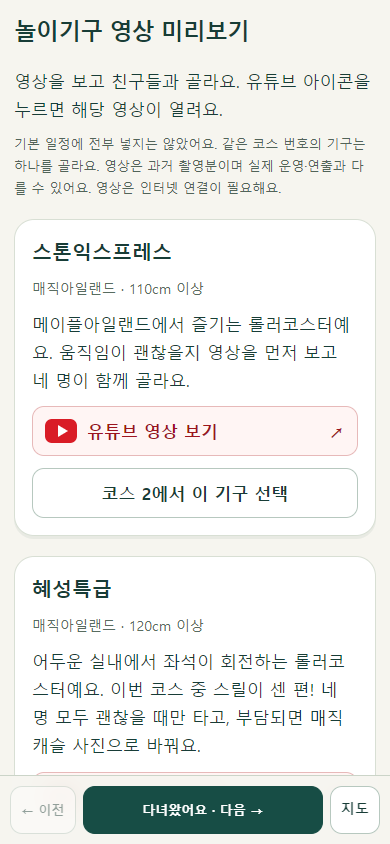
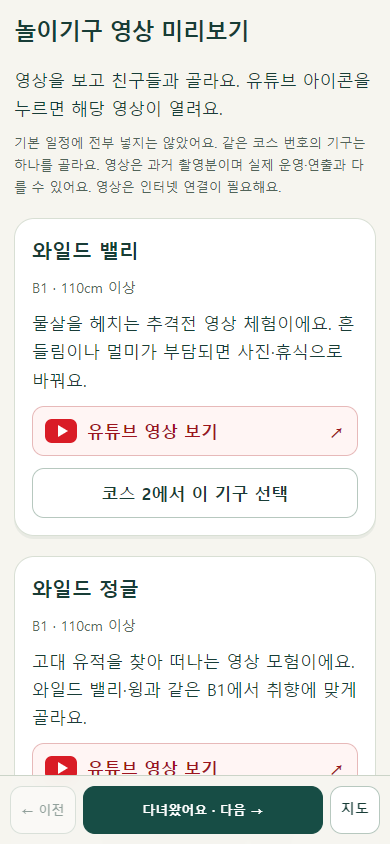
Group rides by floor and connect one outdoor visit to night parade

diff --git a/app.js b/app.js
@@ -1,10 +1,22 @@
+import {migrateV2} from './migration.js';
 import {videos} from './videos.js';
 import {setupMapFullscreen} from './fullscreen.js';
 import {initialState,restore,advance,previous,choose} from './state.js';
 import {steps,places,resolve,directions,links} from './data.js';
 import {RouteMap} from './map.js';
-const $=id=>document.getElementById(id),KEY='lotte-day-v2';
-let state;try{const raw=localStorage.getItem(KEY);if(raw)state=restore(raw,steps.length);else{const oldRaw=localStorage.getItem('lotte-day-v1');state=oldRaw?restore(oldRaw,14):initialState();if(oldRaw){state.current+=state.current>=8?1:0;state.done=state.done.map(i=>i>=8?i+1:i);state.choices=Object.fromEntries(Object.entries(state.choices).map(([i,v])=>[+i>=8?+i+1:+i,v]));if(state.done.includes(1)&&!state.choices[1])state.choices[1]='comet';if(state.done.includes(6)&&!state.choices[6])state.choices[6]='carousel';localStorage.setItem(KEY,JSON.stringify(state));}}}catch{state=initialState();}
+const $=id=>document.getElementById(id),KEY='lotte-day-v3';
+// 코스 번호가 바뀌어도 이미 선택·완료한 장소를 기준으로 복원한다.
+let state;try{
+ const raw=localStorage.getItem(KEY);
+ if(raw)state=restore(raw,steps.length);
+ else{
+  const v2=localStorage.getItem('lotte-day-v2'),v1=localStorage.getItem('lotte-day-v1');
+  let old=restore(v2||v1, v2?15:14);
+  if(!v2&&v1){old.current+=old.current>=8?1:0;old.done=old.done.map(i=>i>=8?i+1:i);old.choices=Object.fromEntries(Object.entries(old.choices).map(([i,v])=>[+i>=8?+i+1:+i,v]));if(old.done.includes(1)&&!old.choices[1])old.choices[1]='comet';if(old.done.includes(6)&&!old.choices[6])old.choices[6]='carousel';}
+  state=v2||v1?migrateV2(old):initialState();
+  localStorage.setItem(KEY,JSON.stringify(state));
+ }
+}catch{state=initialState();}
 let selected=state.current,period='all',floor=resolve(state)[state.current].place.floor;
 const map=new RouteMap($('route-map'),i=>select(i,false));
 const label=p=>({morning:'오전',afternoon:'오후',evening:'저녁'}[p]);
@@ -14,13 +26,13 @@ function toast(t){$('toast').textContent=t;clearTimeout(toast.timer);toast.timer
 function title(s,i){return `<div class="step-title"><span class="num">${i+1}</span><div><h3>${escape(s.place.name)}</h3><div class="meta">${label(s.period)} · ${s.place.floor==='M'?'실외 · 매직아일랜드':`실내 · ${s.place.floor}`} · ${s.required?'필수 일정':'선택 코스'}</div></div></div>`;}
 
 function videoLink(id){const v=videos[id];if(!v)return '';return '<a class="video-link" href="'+v.url+'" target="_blank" rel="noopener noreferrer" aria-label="'+escape(places[id].name)+' 유튜브 영상 보기"><svg viewBox="0 0 32 24" aria-hidden="true"><rect width="32" height="24" rx="7" fill="#d91c26"/><path d="M13 6 L23 12 L13 18 Z" fill="white"/></svg><span>'+escape(v.label||'유튜브 영상 보기')+'</span><span aria-hidden="true">↗</span></a>'+(v.note?'<p class="small">'+escape(v.note)+'</p>':'');}
-const previewSlots={stone:1,comet:1,fantasy:1,horror:1,wild:1,jungle:1,wing:1,sinbad:3,flume:4,dragon:6,kart:6,carousel:6,flyventure:7,monorail:8,pharaoh:8,across:8};
+const previewSlots={wild:1,jungle:1,wing:1,dragon:2,kart:2,carousel:2,flyventure:3,monorail:5,pharaoh:6,across:6,sinbad:7,flume:7,stone:10,fantasy:10,horror:10,comet:10};
 function renderPreviews(){
  $('ride-previews').innerHTML=Object.entries(previewSlots).map(([id,slot])=>'<article class="panel ride-preview"><h3>'+escape(places[id].name)+'</h3><p class="meta">'+(places[id].floor==='M'?'매직아일랜드':places[id].floor)+' · '+escape(places[id].limit||'현장 조건 확인')+'</p><p>'+escape(places[id].note)+'</p>'+videoLink(id)+'<button data-pick-ride="'+id+'" data-slot="'+slot+'">코스 '+(slot+1)+'에서 이 기구 선택</button></article>').join('');
  $('ride-previews').querySelectorAll('[data-pick-ride]').forEach(b=>b.onclick=()=>{const i=+b.dataset.slot;state=choose(state,i,b.dataset.pickRide);if(steps[i].indoor)state.indoor=false;selected=i;period='all';floor=resolve(state)[i].place.floor;save();render();$('step-'+(i+1)).scrollIntoView();});
 }
 
-function details(s){return `<p>${escape(s.place.note)}</p>${videoLink(s.id)}${s.place.limit?`<p class="small">탑승 기준: ${s.place.limit}. 그 외 탑승 제한도 <a href="${s.place.url||links.rides}" target="_blank" rel="noopener">공식 상세</a>와 현장에서 확인해요.</p>`:''}${s.id==='parade'?`<div class="notice"><strong>관람 전 집결: 1F 가든스테이지 주변</strong><p>가든스테이지는 위치 확인용 랜드마크예요. 확정 관람석이 아니에요. 직원이 안내하는 관람선 밖에서 기다려요.</p><p class="small">어드벤처 1F에서 관람해요. 오늘 관람 자리는 직원에게 물어봐요.</p><a href="${links.shows}" target="_blank" rel="noopener">오늘 공연 시간 확인 ↗</a></div>`:''}`;}
+function details(s){return `${s.hint?`<p class="notice">${escape(s.hint)}</p>`:''}<p>${escape(s.place.note)}</p>${videoLink(s.id)}${s.place.limit?`<p class="small">탑승 기준: ${s.place.limit}. 그 외 탑승 제한도 <a href="${s.place.url||links.rides}" target="_blank" rel="noopener">공식 상세</a>와 현장에서 확인해요.</p>`:''}${s.id==='parade'?`<div class="notice"><strong>관람 전 집결: 1F 가든스테이지 주변</strong><p>가든스테이지는 위치 확인용 랜드마크예요. 확정 관람석이 아니에요. 직원이 안내하는 관람선 밖에서 기다려요.</p><p class="small">어드벤처 1F에서 관람해요. 오늘 관람 자리는 직원에게 물어봐요.</p><a href="${links.shows}" target="_blank" rel="noopener">오늘 공연 시간 확인 ↗</a></div>`:''}`;}
 function render(){const list=resolve(state),s=list[state.current];$('progress').textContent=`${state.done.length}/${steps.length} 완료`;$('current').innerHTML=title(s,state.current)+`<p class="meta">${s.time}</p>`;$('next').innerHTML=`<strong>다음에 갈 곳 · ${list[state.current+1]?.place.name||'함께 귀가 완료'}</strong><p class="small">${directions(s.place,list[state.current+1]?.place)}</p>`;
  $('cards').innerHTML=list.map((s,i)=>`<article class="panel route-card ${s.period}-card ${i===selected?'selected':''}" id="step-${i+1}"><button class="card-select" data-select="${i}" aria-label="코스 ${i+1} ${s.place.name} 지도에서 보기">${title(s,i)}<p class="meta">${s.time}</p></button>${state.done.includes(i)?'<p class="done">✓ 다녀왔어요</p>':''}${details(s)}${s.options.length>1?`<label class="choice" for="choice-${i}">${i===11?'취소·미운영이면 대체하기':'대기·취향에 맞춰 고르기'}</label><select id="choice-${i}" data-choice="${i}" ${state.indoor&&s.indoor?'disabled':''}>${(state.indoor&&s.indoor?[s.indoor]:s.options).map(id=>`<option value="${id}" ${s.id===id?'selected':''}>${places[id].name}${['meeting','castle'].includes(id)?' · 사진/휴식':''}</option>`).join('')}</select>`:''}<p class="small"><strong>다음 이동 →</strong> ${directions(s.place,list[i+1]?.place)}</p><button data-current="${i}">${state.current===i?'지금 단계예요':'여기를 현재 단계로'}</button></article>`).join('');
  $('cards').querySelectorAll('[data-select]').forEach(b=>b.onclick=()=>select(+b.dataset.select,true));$('cards').querySelectorAll('[data-current]').forEach(b=>b.onclick=()=>{state.current=+b.dataset.current;selected=state.current;floor=resolve(state)[selected].place.floor;save();render();$('current').scrollIntoView({block:'center'});});$('cards').querySelectorAll('[data-choice]').forEach(c=>c.onchange=()=>{const i=+c.dataset.choice;state=choose(state,i,c.value);selected=i;period='all';floor=resolve(state)[i].place.floor;save();render();toast('선택 코스와 다음 이동을 바꿨어요.');});
@@ -28,7 +40,7 @@ function render(){const list=resolve(state),s=list[state.current];$('progress').
 }
 function renderMap(){const list=resolve(state);const route=[list[selected-1],list[selected],list[selected+1]].filter(Boolean);$('map-route').textContent=route.map(s=>s.place.name+' ('+s.place.floor+')').join(' → ');$('floor').value=floor;$('periods').innerHTML=[['all','전체'],['morning','오전'],['afternoon','오후'],['evening','저녁']].map(([id,name])=>`<button data-period="${id}" aria-pressed="${id===period}">${name}</button>`).join('');$('periods').querySelectorAll('button').forEach(b=>b.onclick=()=>{period=b.dataset.period;renderMap();});map.draw(list,selected,period,floor);if(period==='all'&&floor===list[selected].place.floor)map.focus(selected);const s=list[selected];$('map-detail').innerHTML=`<p class="eyebrow">선택한 코스 · 현재 단계 ${state.current+1}과 다를 수 있어요</p>${title(s,selected)}<p class="meta">${s.time}</p>${details(s)}<p class="small"><strong>이곳으로 → </strong>${selected?directions(list[selected-1].place,s.place):'정문 B1에서 출발해요.'}</p><p class="small"><strong>다음으로 → </strong>${directions(s.place,list[selected+1]?.place)}</p><a class="button" href="#step-${selected+1}">이 일정 카드 열기</a>`;}
 function select(i,scroll){selected=i;period='all';floor=resolve(state)[i].place.floor;render();map.focus(i);if(scroll)$('map').scrollIntoView();}
-$('prev').onclick=()=>{state=previous(state);selected=state.current;save();render();};$('next-step').onclick=()=>{state=advance(state,steps.length);selected=state.current;save();render();toast(state.current===steps.length-1?'네 명 모두 함께 귀가해요.':'다음 단계로 이동했어요.');};
+$('prev').onclick=()=>{state=previous(state);selected=state.current;period='all';floor=resolve(state)[selected].place.floor;save();render();};$('next-step').onclick=()=>{state=advance(state,steps.length);selected=state.current;period='all';floor=resolve(state)[selected].place.floor;save();render();toast(state.current===steps.length-1?'네 명 모두 함께 귀가해요.':'다음 단계로 이동했어요.');};
 $('indoor').onchange=e=>{state.indoor=e.target.checked;state.done=state.done.filter(i=>!steps[i].indoor);period='all';floor='all';save();render();toast(state.indoor?'야외 일정을 실내로 바꿨어요.':'기본 야외 코스로 돌아왔어요.');};
 $('floor').onchange=e=>{floor=e.target.value;renderMap();};$('zoom-in').onclick=()=>map.zoom(.75);$('zoom-out').onclick=()=>map.zoom(1.33);$('fit').onclick=()=>{period='all';floor='all';renderMap();map.fit();};$('focus').onclick=()=>{period='all';floor=resolve(state)[selected].place.floor;renderMap();map.focus(selected);};$('show-current').onclick=()=>select(state.current,false);
 $('reset').onclick=()=>$('reset-confirm').hidden=false;$('reset-no').onclick=()=>$('reset-confirm').hidden=true;$('reset-yes').onclick=()=>{state=initialState();selected=0;period='all';floor='all';save();render();$('reset-confirm').hidden=true;toast('처음 단계로 돌아왔어요.');};

diff --git a/index.html b/index.html
@@ -9,6 +9,6 @@
 <p class="small notice">10시 개장을 가정한 <strong>권장 시간대</strong>예요. 예약 시간이 아니에요. 정문(B1) 출발을 가정했어요. 다른 입구라면 직원에게 첫 목적지를 물어봐요.</p>
 <section id="map" class="panel"><div class="section-top"><h2>우리의 코스 지도</h2><span class="tag">공식 지도 기반</span></div><p><strong>첨부 가이드맵 위에서 따라가기</strong></p><p class="small">배경은 공식 가이드맵이에요. 큰 색상 원과 ‘코스’ 버튼은 우리 번호예요. 원본의 작은 시설 번호와 달라요. 확대해서 확인해요.</p><div class="filters" id="periods" aria-label="시간대 선택"></div><label for="floor">구역 / 층 선택</label><select id="floor"><option value="all">전체 코스</option><option value="B1">실내 B1 · 정문</option><option value="1F">실내 1F</option><option value="2F">실내 2F</option><option value="3F">실내 3F</option><option value="4F">실내 4F</option><option value="M">실외 · 매직아일랜드</option></select>
 <div class="legend"><span class="morning">● 오전</span><span class="afternoon">● 오후</span><span class="evening">● 저녁</span></div><div id="map-route" class="notice small" aria-live="polite"></div><div class="map-wrap" id="map-wrap"><svg id="route-map" role="group" aria-label="코스 번호를 눌러 장소를 확인하는 안내도" viewBox="0 0 640 840"></svg></div><div class="map-controls"><button id="zoom-in" aria-label="지도 확대">＋</button><button id="zoom-out" aria-label="지도 축소">−</button><button id="fit">전체 경로</button><button id="focus">선택 장소</button></div><p class="small">지도 안: 한 손가락 이동 · 두 손가락 확대/축소<br>페이지 이동: 지도 바깥에서 위아래로 밀어요.</p><div class="notice small"><strong>점선 화살표 = 이동 방향 안내</strong><br>점선은 목적지 방향이에요. 실제 길은 현장 안내를 따라가요.</div><h3>층을 바꾸는 곳</h3><div class="transfer"><strong>실내 ↔ 매직아일랜드</strong><p>신밧드 쪽 1F 계단·에스컬레이터<br>⇅ 어드벤처 2F 연결 통로<br>⇄ 연결 다리 ⇄ 매직캐슬 앞</p></div><div class="transfer"><strong>피크닉 장소</strong><p>회전바구니 출구 옆 1F 계단 ⇅ 2F</p></div><h3>동선 근처 화장실</h3><p class="small">WC · B1 정문 근처 잇츠월드 옆<br>WC · 1F 회전바구니·피크닉 계단 근처<br>WC · 1F 만남의 광장 안쪽</p><div id="map-detail" aria-live="polite"></div><p class="small">축척 없는 동선 안내도 · 핀은 시설 위치예요.</p><a class="button" id="official-map" target="_blank" rel="noopener">공식 가이드맵 열기 ↗</a></section>
-<section id="schedule"><div class="section-top"><h2>하루를 한 걸음씩</h2><span class="tag">큰 번호 순서로</span></div><p class="small">필수는 밥·휴식·함께 귀가! 놀이기구는 모두 선택이에요. 인기 기구는 한 개만 타도 좋아요.</p><div class="panel alternatives"><h3>상황에 맞게 바꾸기</h3><a class="button" href="#videos">▶ 놀이기구 영상 보고 고르기</a><label class="check"><input id="indoor" type="checkbox"> 비·추위 → 실내 코스로 바꾸기</label><p class="small">야외 일정이 실내 사진·휴식으로 바뀌고 지도와 다음 이동도 함께 바뀌어요.</p><p>혜성특급은 이번 코스 중 스릴이 센 편이에요. 어둠·회전이 싫으면 사진 코스로 바꿔요.</p><p>대기 60분 이상 → 해당 카드에서 사진·휴식을 선택해요.</p><p>무서운 기구가 어렵다면 → 함께 쉬거나 순한 대안을 골라요. 혼자 남지 않아요.</p></div><div id="cards"></div></section>
+<section id="schedule"><div class="section-top"><h2>하루를 한 걸음씩</h2><span class="tag">큰 번호 순서로</span></div><p class="small">필수는 밥·휴식·함께 귀가! 놀이기구는 모두 선택이에요. 인기 기구는 한 개만 타도 좋아요.</p><div class="panel alternatives"><h3>상황에 맞게 바꾸기</h3><a class="button" href="#videos">▶ 놀이기구 영상 보고 고르기</a><label class="check"><input id="indoor" type="checkbox"> 비·추위 → 실내 코스로 바꾸기</label><p class="small">야외 일정이 실내 사진·휴식으로 바뀌고 지도와 다음 이동도 함께 바뀌어요.</p><p>혜성특급은 이번 코스 중 스릴이 센 편이에요. 어둠·회전이 싫으면 사진 코스로 바꿔요.</p><p>대기 60분 이상 → 기구를 건너뛰어요. 다음 일정 카드의 ‘여기를 현재 단계로’를 눌러요.</p><p>무서운 기구가 어렵다면 → 함께 쉬거나 순한 대안을 골라요. 혼자 남지 않아요.</p></div><div class="panel"><h3>왔다 갔다 줄인 순서</h3><p>B1 와일드 → 1F 드래곤·플라이벤처 → 점심 → 3F 모노레일 → 4F 택1 → 1F 신밧드·휴식 → 저녁 → 야외 기구·야경 → 실내 퍼레이드 → 귀가</p><p class="small">야외는 저녁에 한 번만! 공연이 빠르면 저녁도 앞당기고 야외 기구·사진은 줄여요. 기구는 모두 선택이며, 못 타도 괜찮아요.</p></div><div id="cards"></div></section>
 <section id="videos"><h2>놀이기구 영상 미리보기</h2><p>영상을 보고 친구들과 골라요. 유튜브 아이콘을 누르면 해당 영상이 열려요.</p><p class="small">기본 일정에 전부 넣지는 않았어요. 같은 코스 번호의 기구는 하나를 골라요. 영상은 과거 촬영분이며 실제 운영·연출과 다를 수 있어요. 영상은 인터넷 연결이 필요해요.</p><div id="ride-previews"></div></section><section id="ready" class="panel"><h2>출발 전 체크</h2><div class="packing"><label><input type="checkbox"> 작은 가방</label><label><input type="checkbox"> 물</label><label><input type="checkbox"> 보조배터리</label><label><input type="checkbox"> 편한 운동화</label><label><input type="checkbox"> 겉옷</label></div><h3>우리 넷의 약속</h3><p>이동 전에는 네 명 모두 있는지 확인해요. 길이 헷갈리면 멈추고 직원에게 물어봐요.</p><p id="meeting"></p><p>흩어지면 혼자 찾으러 다니지 말고 가까운 직원에게 도움을 요청해요.</p><h3>당일 꼭 확인</h3><div id="official-links" class="link-list"></div><p class="small">키·나이·건강 상태 등 모든 탑승 조건은 공식 상세 안내와 현장 직원에게 확인해요. 이 사이트에는 실시간 대기시간이 없어요.</p><h3>저장과 오프라인</h3><p class="small">현재 단계·완료·코스 선택은 이 기기에 저장돼요. 친구들과 자동 동기화되지 않아요. 개인정보는 입력하거나 전송하지 않아요.</p><p id="offline-status" class="small" role="status">오프라인 준비 중…</p><p class="small">최신 운영시간·운휴·공연은 온라인 공식 사이트에서 확인해야 해요.</p><button id="reset">처음부터 다시 보기</button><div id="reset-confirm" hidden><p>완료 표시와 선택 코스를 모두 지울까요?</p><button id="reset-yes">네, 초기화</button> <button id="reset-no">취소</button></div></section>
 <footer><strong>즐거운 하루, 함께 돌아오기.</strong><p>공식 자료 확인: 2026.10.27<br>지도 © 롯데월드 · 제공받은 재게시 허가에 따라 사용.</p><a href="./research.md">지도 출처·확인 범위</a> · <a href="https://github.com/leegunsoodev/lotteworld-day-guide">GitHub</a></footer></main><nav class="bottom" aria-label="단계 이동"><button id="prev">← 이전</button><button id="next-step" class="primary">다녀왔어요 · 다음 →</button><a href="#map">지도</a></nav><div id="toast" role="status" aria-live="polite"></div></body></html>

diff --git a/sw.js b/sw.js
@@ -1,5 +1,5 @@
-const CACHE='lotte-day-v6';
-const ASSETS=['./','./index.html','./style.css','./app.js','./fullscreen.js','./data.js','./videos.js','./state.js','./map.js','./icon.svg','./og.png','./research.md','./maps/B1.webp','./maps/1F.webp','./maps/2F.webp','./maps/3F.webp','./maps/4F.webp','./maps/M.webp'];
+const CACHE='lotte-day-v7';
+const ASSETS=['./','./index.html','./style.css','./app.js','./migration.js','./fullscreen.js','./data.js','./videos.js','./state.js','./map.js','./icon.svg','./og.png','./research.md','./maps/B1.webp','./maps/1F.webp','./maps/2F.webp','./maps/3F.webp','./maps/4F.webp','./maps/M.webp'];
 self.addEventListener('install',event=>event.waitUntil(caches.open(CACHE).then(c=>c.addAll(ASSETS)).then(()=>self.skipWaiting())));
 self.addEventListener('activate',event=>event.waitUntil(caches.keys().then(keys=>Promise.all(keys.filter(k=>k.startsWith('lotte-day-')&&k!==CACHE).map(k=>caches.delete(k)))).then(()=>self.clients.claim())));
 self.addEventListener('fetch',event=>{if(event.request.method!=='GET'||new URL(event.request.url).origin!==self.location.origin)return;event.respondWith(fetch(event.request).then(r=>r).catch(()=>caches.match(event.request).then(r=>r||(event.request.mode==='navigate'?caches.match('./index.html'):Response.error()))));});

diff --git a/migration.js b/migration.js
@@ -1,0 +1,17 @@
+import {steps} from './data.js';
+// v2는 같은 장소가 여러 슬롯에 있었다. 현재 단계의 선택을 마지막에 반영한다.
+const defaults=['gate','stone','school','sinbad','flume','twosome','dragon','flyventure','monorail','dinner','castle','parade','meeting','final','exit'];
+const fallback=[0,10,4,7,7,8,2,3,5,9,10,11,12,13,14];
+export function migrateV2(old){
+ const targets=defaults.map((id,i)=>{
+  id=old.choices[i]||id;
+  if(steps[fallback[i]].options.includes(id))return {slot:fallback[i],id};
+  const slot=steps.findIndex(s=>s.options.includes(id));
+  return slot<0?{slot:fallback[i],id:steps[fallback[i]].options[0]}:{slot,id};
+ });
+ const choices={};
+ const order=defaults.map((_,i)=>i).filter(i=>i!==old.current).concat(old.current);
+ for(const i of order){if(old.choices[i]||old.done.includes(i)||i===old.current){const t=targets[i];choices[t.slot]=t.id;}}
+ const done=[...new Set(old.done.filter(i=>targets[i].id===(choices[targets[i].slot]||steps[targets[i].slot].options[0])).map(i=>targets[i].slot))];
+ return {current:targets[old.current].slot,done,choices,indoor:old.indoor};
+}

diff --git a/research.md b/research.md
@@ -129,3 +129,7 @@ REA 정적 분석에서 제공 파일은 롯데월드 앱이 아닌 Uptodown 7.4
 | 와일드 정글 | [(sub) 4K 와일드 정글 1인칭 탑승영상 / 롯데월드 어드벤처 / Wild Jungle POV Lotte World Adventure Korea](https://www.youtube.com/watch?v=nl8iwuDYiLU) | MIN NEWS |
 | 와일드 윙 | [(sub) 4K 와일드 윙 1인칭 탑승영상 Wild Wing POV / 롯데월드 어드벤처 Lotte World Adventure Korea](https://www.youtube.com/watch?v=8RO_wQnDW44) | MIN NEWS |
 | 카트라이더레이싱월드 | [롯데월드 카트라이더 신규 트랙은 못 참지..월드 카트레이싱 머신맨이 직접 체험해보았습니다🚗](https://www.youtube.com/watch?v=VcYvhUsZpQw) | 롯데월드 LOTTE WORLD |
+
+
+## 2026-10-27 동선 재정리
+기존 공식 지도 도판과 시설 좌표를 다시 대조했다. B1 와일드 3종은 입장 직후, 1F 드래곤·플라이벤처는 같은 동쪽 구역, 신밧드·식사·투썸은 서쪽 구역으로 묶는다. 3F 모노레일과 4F 파라오/어크로스다크는 연속 방문한다. 야외를 오전과 저녁에 나눠 방문하던 구성을 저녁 한 번으로 줄인다. 야외 기구는 택1 후 캐슬 사진, 공연 20~30분 전 실내 복귀를 우선한다. 위층 승강 지점과 세부 보행길은 기존 확인 범위를 넘겨 만들지 않는다.

diff --git a/plan.md b/plan.md
@@ -21,3 +21,10 @@
 - [x] 추가 11개 기구(기존 5개 포함 총16개)와 층별 핀, 윗층 선택 일정 추가
 - [x] 개별 영상 링크 검증 후 유튜브 아이콘과 미리보기 목록 구현
 - [x] 기존 저장 단계는 새 윗층 단계 삽입에 맞게 이전
+
+
+## 동선 재정리
+B1 와일드 → 1F 동쪽 기구 → 점심 → 3F 모노레일 → 4F 택1 → 1F 신밧드/후룸·휴식 → 저녁 → 매직아일랜드 택1·야경 → 퍼레이드 → 기념품·귀가. 15단계를 유지하며 지도와 영상 선택 슬롯을 함께 변경한다. 기존 저장은 장소 기준으로 이전한다. 층 묶음·저장 이전·대안·모바일·공개 배포 검증.
+
+- [x] 동선·지도·영상 슬롯 재배치 및 저장 이전
+- [x] 로컬 모바일·오프라인·전체화면·영상·층 경계 회귀 검증

diff --git a/error.md b/error.md
@@ -13,3 +13,5 @@
 - 코스 변경 회귀 검사에서 같은 문서 #step 링크 변경 시 지도 선택 미갱신 발견. 초기 로드뿐 아니라 hashchange도 처리하고 해당 층을 함께 선택하도록 수정.
 
 - 유튜브 검색 결과에 영상이 있어도 oEmbed401인 모노레일 후보는 제외하고 접근 가능한 영상으로 교체. 호러의 일반판 대체운영 영상을 공포영상으로 오인하지 않도록 이전 공포테마 영상임을 표시.
+
+- 일정 재배치 후 번호 클릭 검사는 다른 층에 숨겨진 핀을 조회하므로 먼저 전체 경로 표시 후 클릭하도록 조정. 이전/다음 이동 시 지도 층도 현재 장소와 함께 변경하도록 보완하고 층 경계 회귀 검사를 추가.
